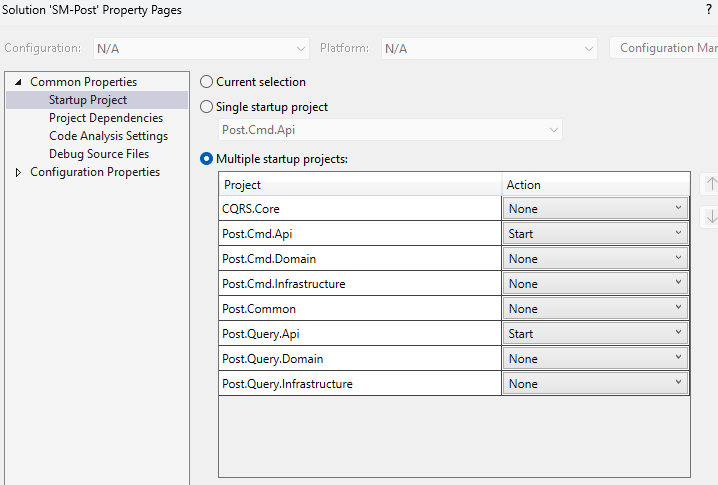
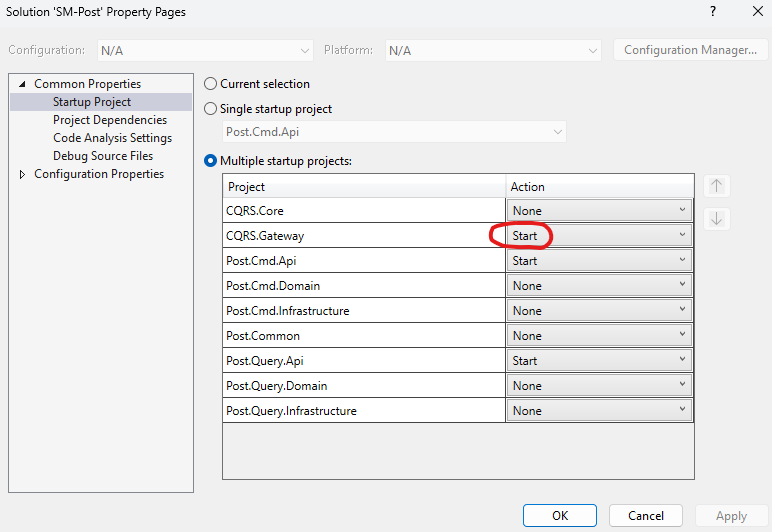
Changed the diagrams, the postman collection, docker-compose etc to suit the gateway. (#2)
* Made a lot of improvements and corrections

* Improvements and corrections.

diff --git a/CQRS.Gateway/Program.cs b/CQRS.Gateway/Program.cs
@@ -1,12 +1,13 @@
 var builder = WebApplication.CreateBuilder(args);
 
 // Add services to the container.
-builder.Services.AddReverseProxy().LoadFromConfig(builder.Configuration.GetSection("ReverseProxy"));
+builder.Services.AddReverseProxy()
+    .LoadFromConfig(builder.Configuration.GetSection("ReverseProxy"));
+
 
 builder.Services.AddControllers();
 // Learn more about configuring Swagger/OpenAPI at https://aka.ms/aspnetcore/swashbuckle
 builder.Services.AddEndpointsApiExplorer();
-builder.Services.AddSwaggerGen();
 
 builder.Services.AddCors(options =>
 {
@@ -21,12 +22,6 @@ builder.Services.AddCors(options =>
 var app = builder.Build();
 app.UseCors();
 app.MapReverseProxy();
-// Configure the HTTP request pipeline.
-if (app.Environment.IsDevelopment())
-{
-    app.UseSwagger();
-    app.UseSwaggerUI();
-}
 
 app.UseAuthorization();
 

diff --git a/README.md b/README.md
@@ -102,6 +102,8 @@ You will need docker desktop on your machine to be able to run this repo. There 
     <img src="Images/project-start-setup.png" alt="Multiple Start up project" />
   </p>
 
+  Please note the gateway project, if set to start will just open a console and the gatweway routes will work just fine. You may optionally choose to not start the gateway in debug mode.
+
 - Run the solution and you should be able to see the swagger pages opening up! 
   <p align="center">
     <img src="Images/swagger.png" alt="Multiple Start up project" />
@@ -137,9 +139,7 @@ You will need docker desktop on your machine to be able to run this repo. There 
   docker-compose up -d
   ```
 
-- Use the postman collection located [here](https://github.com/OxyProgrammer/cqrs-plus/blob/main/PostmanCollection/CQRSPlus.postman_collection.json) to run requests. Alternatively, you can access the swagger page to test the services:
-  - Command Service: [http://localhost:5000/swagger/index.html](http://localhost:5000/swagger/index.html)
-  - LookUp Service: [http://localhost:5001/swagger/index.html](http://localhost:5001/swagger/index.html)
+- You will be able to access the command and lookup service using gateway only. Use the postman collection located [here](https://github.com/OxyProgrammer/cqrs-plus/blob/main/PostmanCollection/CQRSPlus.postman_collection.json) to run requests.
 
 
 ## Contributing
